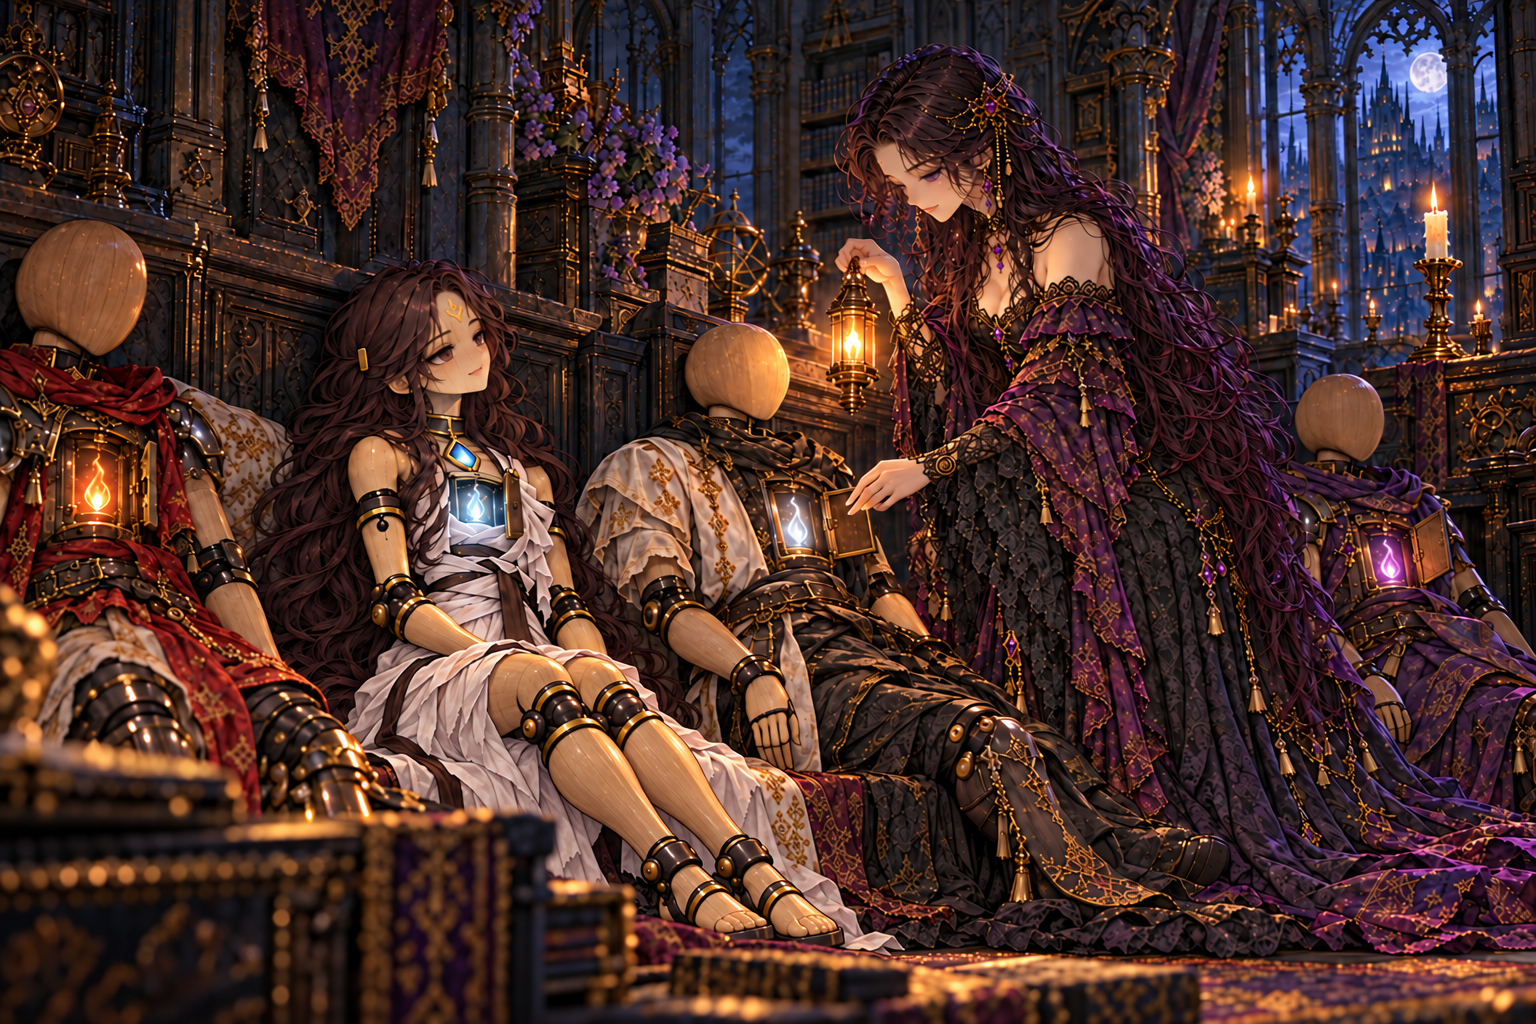
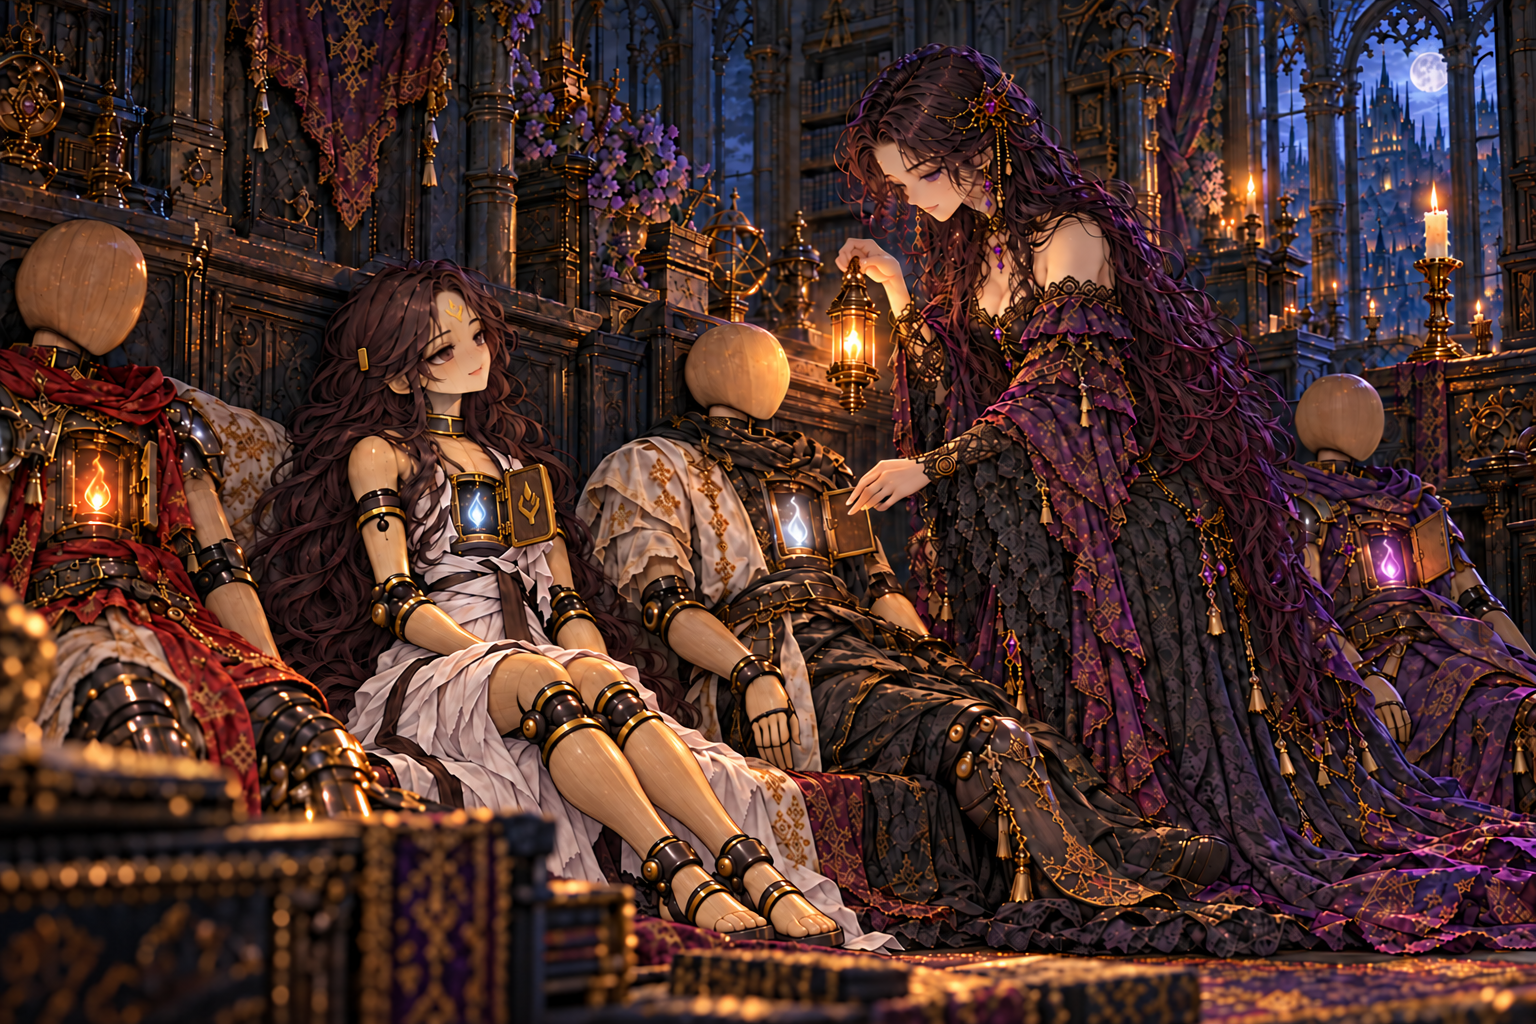
fix: セラの胸の開き方と一つの魂の描写を統一

diff --git a/docs/art/codex-story-art-brief.md b/docs/art/codex-story-art-brief.md
@@ -772,6 +772,7 @@ The same throne room at dusk, a calm orange sky outside the tall windows. The ve
 **irene_rest「休む灯」** (館の語り)
 - 要点: 「魂は、休ませないと腐る」。イレーヌが並んで眠る人業たちの胸の灯をひとつずつ見て回る。イレーヌも師がいなくなってから一晩も休んでいなかった。セラ「今夜はわたしが灯の番をします」。イレーヌ「あなたも、ですよ」。
 - 修正 (2026-10-14 ユーザーの指示): セラの脚を左右一本ずつ、足を二つにする。白い布の下の骨盤から腿・膝・すね・足が自然につながる座り姿に直し、余分な脚と継ぎ目を除く。顔・上半身・イレーヌ・周りの人業・構図・灯りは保つ。(済)
+- 追加修正 (2026-10-14 ユーザーの指示): 胸の開き方を `art/story-review/chapter4/irene_sera_wake.png` に合わせる。胸のアクセサリーから見える青白い光はセラ自身の魂であり、別の宝石や二つ目の魂ではない。金縁のアクセサリーと開いた木の胸板を同じ構造として描き、胸の内側の魂を一つだけ見せる。開いた蓋の装飾を別に青く光らせない。修正済みの脚二本と足二つ、顔・髪・腕・周囲の人業・構図・灯りを保つ。(済)
 ```text
 The same mansion at night. A row of wooden dolls rests seated against the wall, eyes closed, small soft lights glowing in their chest doors. Irene walks along the row holding a small lamp, checking each light with tender care. Sera (as in the Sera reference) sits among them, sleepily smiling up at her. The single white candle on its brass candlestick burns quietly in the background.
 ```

diff --git a/art/story-review/fixes/irene_rest.md b/art/story-review/fixes/irene_rest.md
@@ -4,11 +4,14 @@
 
 - [修正前の原画](irene_rest-before-leg-fix.png)
 - [修正後の原画](../chapter9/irene_rest.png)
+- [胸元の修正前](irene_rest-before-chest-fix.png)
 - [絵と本文の確認ページ](../review/chapter9.md#irene_rest)
 - [第九章の縮小見本](../review/chapter9-small.jpg)
 
 `node tools/storyart/prompt.mjs irene_rest` の出力を使用。修正前の原画、イレーヌ・セラの基準シート、セラの原画、小道具の基準シートを画像編集の参照として渡した。セラの顔・髪・上半身・胸の灯、イレーヌ、周囲の人業、背景と灯りを保持した。
 
 原画と出荷WebPは1536×1024。セラの膝二つ・すね二本・足二つが骨盤から自然につながること、腕と見える手、顔と衣装、周囲の人業と構図を原画と縮小見本で目視確認。
+
+追加指示により、胸の開き方を第四章 `irene_sera_wake` の原画に合わせて修正。胸のアクセサリーから見える光はセラ自身の魂であり、別の光る宝石ではない。金縁の装飾を胸の蓋と一体にし、開いた蓋は光らず、胸の内側にだけ青白い魂が一つ見える形に統一した。参照には第四章の原画・セラの基準シート・セラR1原画・イレーヌの基準シートを使用した。
 
 `python3 tools/storyart/build.py` によるWebP変換、登録、原画ハッシュ記録、確認ページ・縮小見本の生成と検査は成功。本文は変更していない。制作指示の「(済)」は作業完了を示し、ユーザー承認やmainへのマージを意味しない。

diff --git a/art/story-review/review/chapter9.md b/art/story-review/review/chapter9.md
@@ -355,6 +355,7 @@ _(絵はまだ無い)_
 
 - 要点: 「魂は、休ませないと腐る」。イレーヌが並んで眠る人業たちの胸の灯をひとつずつ見て回る。イレーヌも師がいなくなってから一晩も休んでいなかった。セラ「今夜はわたしが灯の番をします」。イレーヌ「あなたも、ですよ」。
 - 修正 (2026-10-14 ユーザーの指示): セラの脚を左右一本ずつ、足を二つにする。白い布の下の骨盤から腿・膝・すね・足が自然につながる座り姿に直し、余分な脚と継ぎ目を除く。顔・上半身・イレーヌ・周りの人業・構図・灯りは保つ。(済)
+- 追加修正 (2026-10-14 ユーザーの指示): 胸の開き方を `art/story-review/chapter4/irene_sera_wake.png` に合わせる。胸のアクセサリーから見える青白い光はセラ自身の魂であり、別の宝石や二つ目の魂ではない。金縁のアクセサリーと開いた木の胸板を同じ構造として描き、胸の内側の魂を一つだけ見せる。開いた蓋の装飾を別に青く光らせない。修正済みの脚二本と足二つ、顔・髪・腕・周囲の人業・構図・灯りを保つ。(済)
 
 <a name="ch9_end"></a>
 
